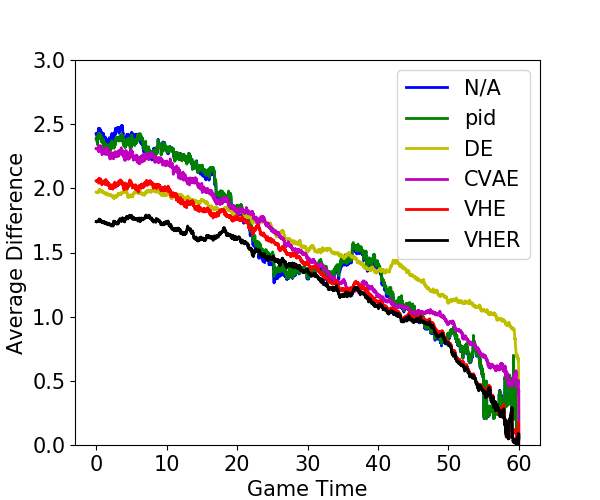
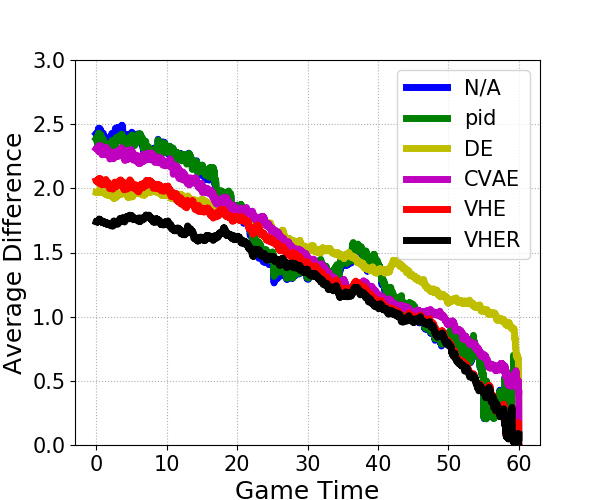
2020-03-27

diff --git a/support/plot_tools.py b/support/plot_tools.py
@@ -6,8 +6,9 @@ import numpy as np
 from mpl_toolkits.mplot3d import Axes3D
 from matplotlib.collections import PolyCollection, LineCollection, PatchCollection
 from matplotlib import colors as mcolors
+# import matplotlib.style as style
 import seaborn as sns
-
+# sns.set()
 
 # fig = plt.figure()
 # ax = fig.gca(projection='3d')
@@ -81,6 +82,7 @@ def line_plot_3d():
 def plot_shadow(x_values_list, y_mean_values_list,
                 y_lower_values_list, y_upper_values_list,
                 sample_size):
+    # style.use('seaborn-darkgrid')
     # from matplotlib.pyplot import cm
     # colors =cm.rainbow(np.linspace(0,1,n))
     colors = ['b', 'g', 'r', 'c', 'm', 'y', 'k', 'w']
@@ -88,6 +90,7 @@ def plot_shadow(x_values_list, y_mean_values_list,
         plt.fill_between(x_values_list, y_lower_values_list[:, i],
                          y_upper_values_list[:, i], alpha=.25, color=colors[i], edgecolor="w")
         plt.plot(x_values_list, y_mean_values_list[:, i], linewidth=2, )
+    plt.grid(linestyle='dotted')
     plt.show()
 
 
@@ -96,14 +99,16 @@ def plot_cv_diff(game_time_list, diff_mean_values_list,
                  colors, apply_shadow=False):
     # event_numbers = range(0, len(diff_values))
     plt.figure(figsize=(6, 5))
+    # style.use('seaborn-darkgrid')
     plt.xticks(size=15)
     plt.yticks(size=15)
     # plt.figure()
-    plt.xlabel('Game Time', fontsize=15)
-    plt.ylabel('Average Difference', fontsize=15)
+    plt.xlabel('Game Time', fontsize=18)
+    plt.ylabel('Average Difference', fontsize=18)
 
     # colors = ['b', 'g', 'r', 'c', 'm', 'y', 'k', 'w']
     colors = ['b', 'g', 'y', 'm', 'r', 'k', 'w']
+    markers = ['^', '*', 'x', 'P', 'o', '1']
 
     for i in range(0, len(game_time_list)):
 
@@ -111,19 +116,19 @@ def plot_cv_diff(game_time_list, diff_mean_values_list,
 
             print (diff_mean_values_list[i])
 
-            game_time_list_new = game_time_list[i][:int(float(11)/12*len(game_time_list[i]))]
-            diff_mean_values_list_new = diff_mean_values_list[i][:int(float(11)/12*len(diff_mean_values_list[i]))]
-            diff_var_values_list_new = diff_var_values_list[i][:int(float(11)/12*len(diff_var_values_list[i]))]
-            for index in range(int(float(11)/12*len(game_time_list[i])), len(game_time_list[i])):
+            game_time_list_new = game_time_list[i][:int(float(11) / 12 * len(game_time_list[i]))]
+            diff_mean_values_list_new = diff_mean_values_list[i][:int(float(11) / 12 * len(diff_mean_values_list[i]))]
+            diff_var_values_list_new = diff_var_values_list[i][:int(float(11) / 12 * len(diff_var_values_list[i]))]
+            for index in range(int(float(11) / 12 * len(game_time_list[i])), len(game_time_list[i])):
                 # print ('adding value')
                 if diff_mean_values_list[i][index] < 0.5:
                     diff_mean_values_list_new = np.append(diff_mean_values_list_new, diff_mean_values_list[i][index])
                 elif diff_mean_values_list[i][index] < 1:
                     value = diff_mean_values_list[i][index]
-                    diff_mean_values_list_new = np.append(diff_mean_values_list_new, value-0.3)
+                    diff_mean_values_list_new = np.append(diff_mean_values_list_new, value - 0.3)
                 else:
                     value = diff_mean_values_list[i][index]
-                    diff_mean_values_list_new = np.append(diff_mean_values_list_new, value-0.5)
+                    diff_mean_values_list_new = np.append(diff_mean_values_list_new, value - 0.5)
                 game_time_list_new = np.append(game_time_list_new, game_time_list[i][index])
                 diff_var_values_list_new = np.append(diff_var_values_list_new, diff_var_values_list[i][index])
 
@@ -137,17 +142,20 @@ def plot_cv_diff(game_time_list, diff_mean_values_list,
 
         # print('avg of {0} is {1}'.format(model_category_all[i], np.mean(diff_mean_values_list[i])))
         if apply_shadow:
-            y_lower_values = diff_mean_values_list[i] - diff_var_values_list[i]/5
-            y_upper_values = diff_mean_values_list[i] + diff_var_values_list[i]/5
-            plt.fill_between(game_time_minutes, y_lower_values,
-                             y_upper_values, alpha=.2, color=colors[i], edgecolor="none",
-                             linewidth=0)
-        plt.plot(game_time_minutes, diff_mean_values_list[i],
-                 label=model_category_all[i], color=colors[i],
-                 linewidth=2)
+            y_lower_values = diff_mean_values_list[i] - diff_var_values_list[i] / 5
+            y_upper_values = diff_mean_values_list[i] + diff_var_values_list[i] / 5
+            plt.fill_between(game_time_minutes, y_lower_values, y_upper_values,
+                             alpha=.2, color=colors[i],
+                             edgecolor="none", linewidth=0)
+            plt.plot(game_time_minutes, diff_mean_values_list[i],
+                     label=model_category_all[i], color=colors[i], linewidth=2)
+        else:
+            plt.plot(game_time_minutes, diff_mean_values_list[i],
+                     label=model_category_all[i], color=colors[i], linewidth=5)
         plt.ylim(0, 3)
 
     plt.legend(fontsize=15)
+    plt.grid(linestyle='dotted')
     if apply_shadow:
         plt.savefig('./diff_plots/temporal-absolute-difference-shadow-plot.png')
     else:

diff --git a/nn_structure/cvrnn.py b/nn_structure/cvrnn.py
@@ -338,6 +338,7 @@ class CVRNN():
                                                           initial_state=tf.contrib.rnn.LSTMStateTuple(
                                                               self.initial_state_c,
                                                               self.initial_state_h))
+
         # print outputs
         # outputs = map(tf.pack,zip(*outputs))
         cvrnn_outputs = tf.split(value=tf.transpose(a=cvrnn_outputs, perm=[1, 0, 2]),
